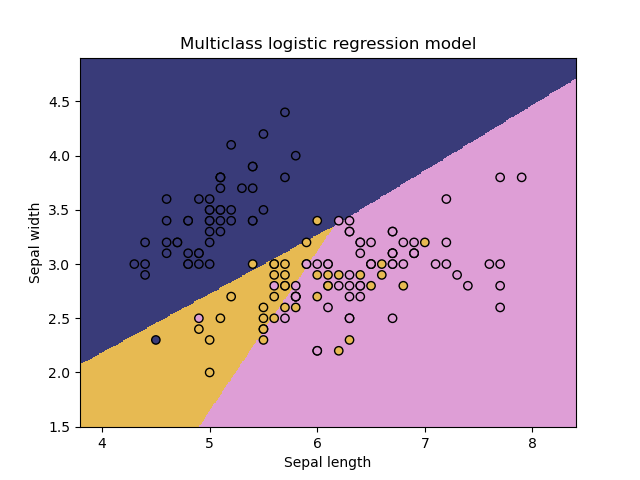
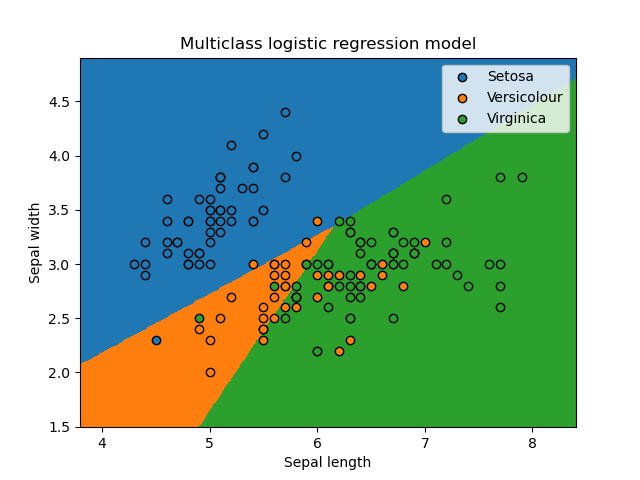
Update legend and colors.

diff --git a/mlfromscratch/examples/logistic_reg.py b/mlfromscratch/examples/logistic_reg.py
@@ -1,6 +1,7 @@
 from ..supervised.logistic_regression import Logistic_regression
 import numpy as np
 import matplotlib.pyplot as plt
+import matplotlib.colors as col
 from sklearn import datasets
 
 # Load the iris dataset
@@ -27,10 +28,18 @@ Z = Z.reshape(xx.shape)
 
 # Plot outputs
 fig, ax = plt.subplots(nrows=1, ncols=1)
-ax.pcolormesh(xx, yy, Z, shading='auto', cmap="tab20b")
-ax.scatter(X[:, 0], X[:, 1], c=y, edgecolors="k", cmap="tab20b")
+colors = ['tab:blue','tab:orange','tab:green']
+cMap = col.ListedColormap(colors)
+ax.pcolormesh(xx, yy, Z, shading='auto', cmap=cMap)
+cdict = {0:"Setosa", 1:"Versicolour", 2:"Virginica"}
+
+for i in np.unique(y):
+    ix = np.where(i == y)
+    ax.scatter(X[ix, 0], X[ix, 1], label = cdict[i], edgecolors="k", color=colors[i])
+
 ax.set_title("Multiclass logistic regression model")
 ax.set_xlabel("Sepal length")
 ax.set_ylabel("Sepal width")
+ax.legend()
 fig.savefig('mlfromscratch/examples/output/logistic_reg.png')
 plt.close(fig)
